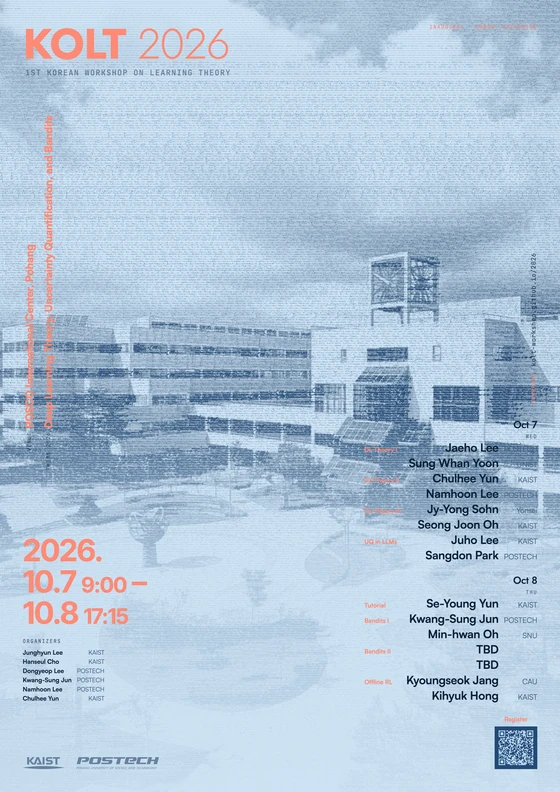
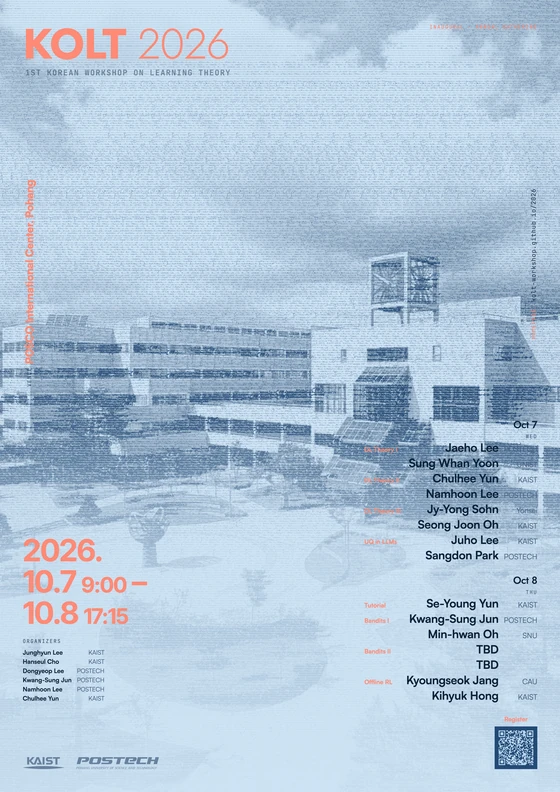
Put the institutions where the people are, and retire the theme line
The hosts section moves up under the organisers. The two sections answer the
same question — who is behind this — and had a programme, a travel card and a
poster standing between them. The bands either side swap so they keep
alternating with one more in the run.

The marks also appear at the far end of the hero's button row. margin-left:auto
puts them there and gives up first when the row wraps, so on a phone they drop
to a line of their own under the buttons rather than squeezing them.

KAIST comes from the transparent original rather than a knocked-out copy, and
both marks are WebP in two sizes. The pair was 99KB as PNG and is 59KB as WebP
at the same dimensions with nothing to see between them at 44px; and since the
hero draws them at 22 and the section at 44, the hero takes a 66px-tall file
rather than a 132px one — 23KB instead of 59, above the fold where a mark is
decoration and the bytes are not free. tools/prep-logo.py writes both from one
source.

And the 2026 theme line goes, from the page and from the poster's left edge.
The value is commented out rather than the markup deleted: fill it in again and
it comes back in both places at once.

Changed region(s): [[0.0304, 0.1515, 0.1214, 0.5758], [0.9411, 0.2424, 0.9714, 0.4545], [0.9411, 0.4848, 0.9714, 0.5152]]

diff --git a/templates/style.css b/templates/style.css
@@ -916,6 +916,27 @@ body {
   animation: heroReveal 0.7s cubic-bezier(0.16, 1, 0.3, 1) both;
   animation-delay: 0.44s;
 }
+/* The two institutions, at the far end of the button row. margin-left:auto
+   pushes them there and gives up first when the row wraps, so on a phone they
+   drop to their own line under the buttons rather than squeezing them.
+   Held back a little: they are an attribution beside a call to action, and at
+   full strength two coloured wordmarks out-shout the pill they sit next to. */
+.hero-marks {
+  display: flex;
+  align-items: center;
+  gap: 18px;
+  margin-left: auto;
+  padding-top: 6px;
+  opacity: 0.85;
+}
+.hero-marks img {
+  height: 22px;
+  width: auto;
+  display: block;
+}
+.hero-marks a:hover img {
+  opacity: 1;
+}
 /* Apple's pair: a full pill either way, filled for the action you want taken
    and a hairline outline for the other — both in the same hue, so they read as
    one control with two weights rather than two unrelated buttons. Ours takes

diff --git a/tools/prep-logo.py b/tools/prep-logo.py
@@ -1,16 +1,27 @@
 #!/usr/bin/env python3
-"""Normalise an institution logo for the footer strip.
+"""Normalise an institution logo, in the two sizes the page shows it at.
 
     python3 tools/prep-logo.py ~/Downloads/some-logo.png postech
 
-Writes static/logos/<slug>.png: near-white knocked out to transparent, empty
-margins trimmed, and scaled to a common cap height so logos of different
-proportions sit on the same optical baseline in the strip.
+Writes static/logos/<slug>.webp and <slug>-sm.webp: near-white knocked out to
+transparent, empty margins trimmed, and scaled to a common cap height so logos
+of different proportions sit on the same optical baseline beside each other.
+
+Two sizes because the page shows them at two. The hosts section at the foot
+draws them at 44px, so it wants 132; the hero draws them at 22 beside the
+buttons, and 132 there would be six times what is on screen — and that one is
+above the fold, where a logo is decoration and the bytes are not.
+
+WebP rather than PNG. These are flat wordmarks with a soft gradient in one of
+them, and PNG spends most of its size on the gradient: the pair comes to 99KB
+as PNG and 59KB as WebP at the same dimensions, with nothing to see between
+them at 44px.
 
 Knocking out the white matters — a logo saved on an opaque white background
-reads as a pale rectangle on the footer, which is what gives a sponsor row that
-"pasted on" look. Needs Pillow, local tooling only; the site build never touches
-images.
+reads as a pale rectangle, which is what gives a sponsor row that "pasted on"
+look. A source that already has an alpha channel keeps it; the knockout only
+ever removes what is already white. Needs Pillow, local tooling only; the site
+build never touches images.
 """
 
 import sys
@@ -18,7 +29,8 @@ from pathlib import Path
 
 from PIL import Image
 
-HEIGHT = 120  # 3x the ~40px the strip displays, so it stays crisp on retina
+# 3x what each is drawn at, so both stay crisp on a phone.
+HEIGHTS = {"": 132, "-sm": 66}
 WHITE_CUTOFF = 238  # anything lighter than this in all channels becomes clear
 OUT = Path(__file__).resolve().parent.parent / "static" / "logos"
 
@@ -41,13 +53,14 @@ def main(source: str, slug: str) -> None:
     if box:
         im = im.crop(box)
 
-    w, h = im.size
-    im = im.resize((round(w * HEIGHT / h), HEIGHT), Image.LANCZOS)
-
     OUT.mkdir(parents=True, exist_ok=True)
-    out = OUT / f"{slug}.png"
-    im.save(out, "PNG", optimize=True)
-    print(f"{source} -> {out.relative_to(OUT.parent.parent)}  {im.size}  ({out.stat().st_size // 1024} KB)")
+    w, h = im.size
+    for suffix, height in HEIGHTS.items():
+        one = im.resize((round(w * height / h), height), Image.LANCZOS)
+        out = OUT / f"{slug}{suffix}.webp"
+        one.save(out, "WEBP", quality=90, method=6)
+        print(f"{source} -> {out.relative_to(OUT.parent.parent)}  {one.size}  "
+              f"({out.stat().st_size / 1024:.1f} KB)")
 
 
 if __name__ == "__main__":

diff --git a/tools/poster.py b/tools/poster.py
@@ -980,7 +980,7 @@ FESTIVAL = """<!doctype html>
     </div>
     <div class="rails">
       <div class="rail"><b>Venue</b><span>{venue_name}, {city}</span></div>
-      <div class="rail"><b>Theme {year}</b><span>{theme}</span></div>
+      {theme_rail}
       <div class="rail rail-right"><b>Homepage</b><span>{url}</span></div>
     </div>
     <div class="panel">
@@ -2267,7 +2267,11 @@ def main(art_path, out_path, layout="stack", photo=None, cutout=None, duotone=No
         year=esc(year),
         full_name=esc(site["full_name"]),
         theme_label=f"{site['year']} Theme",
-        theme=esc(site["theme"]),
+        theme=esc(site.get("theme") or ""),
+        # An edition with no stated theme simply has one rail on that edge.
+        theme_rail=(f'<div class="rail"><b>Theme {esc(str(site["year"]))}</b>'
+                    f'<span>{esc(site["theme"])}</span></div>'
+                    if site.get("theme") else ""),
         eyebrow=esc(site.get("eyebrow") or ""),
         facts=facts,
         prog=programme_html(program, site.get("affiliations", {})),

diff --git a/build.py b/build.py
@@ -386,6 +386,9 @@ def fill_defaults(bundle: dict) -> None:
     bundle["site"].setdefault("hero_background", "art")
     # No poster block at all is a legitimate site; the section disappears.
     if bundle["site"].get("hosts"):
+        for logo in bundle["site"]["hosts"].get("logos", []):
+            # No small variant means the hero simply falls back to the big one.
+            logo.setdefault("small", logo.get("file"))
         for key in ("title", "title_ko", "note", "note_ko"):
             bundle["site"]["hosts"].setdefault(key, None)
     bundle["site"].setdefault("poster", None)
